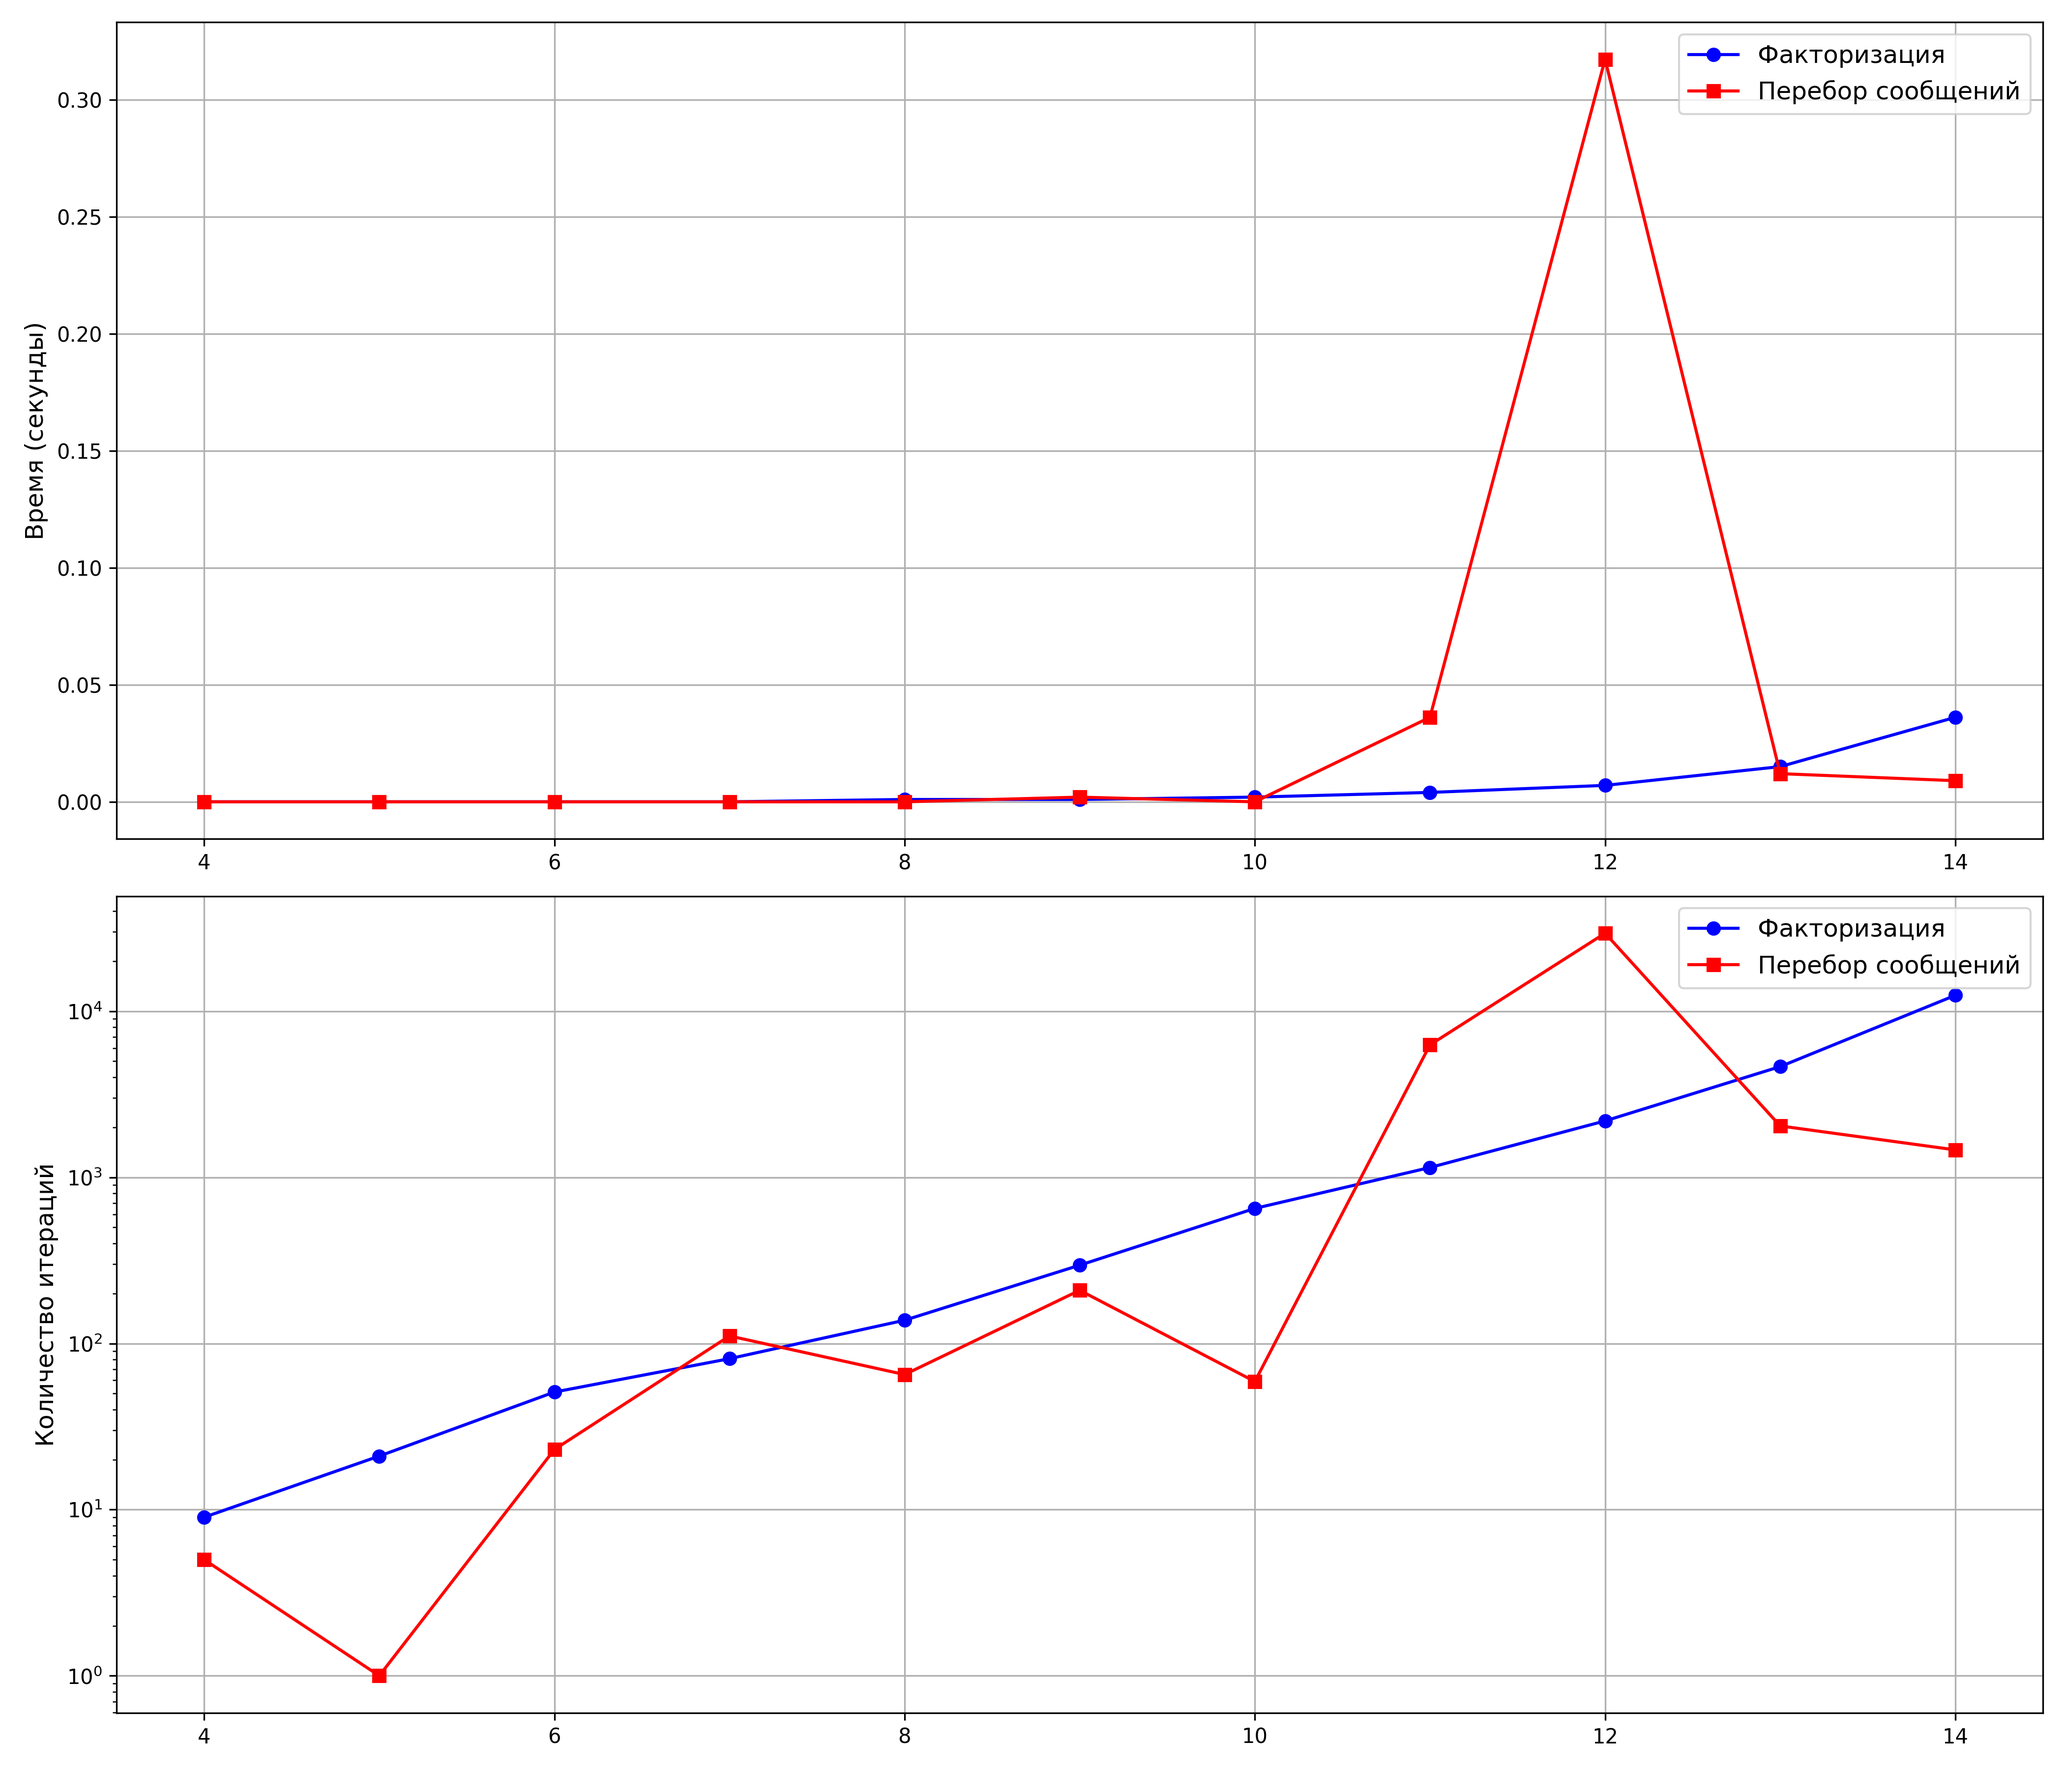
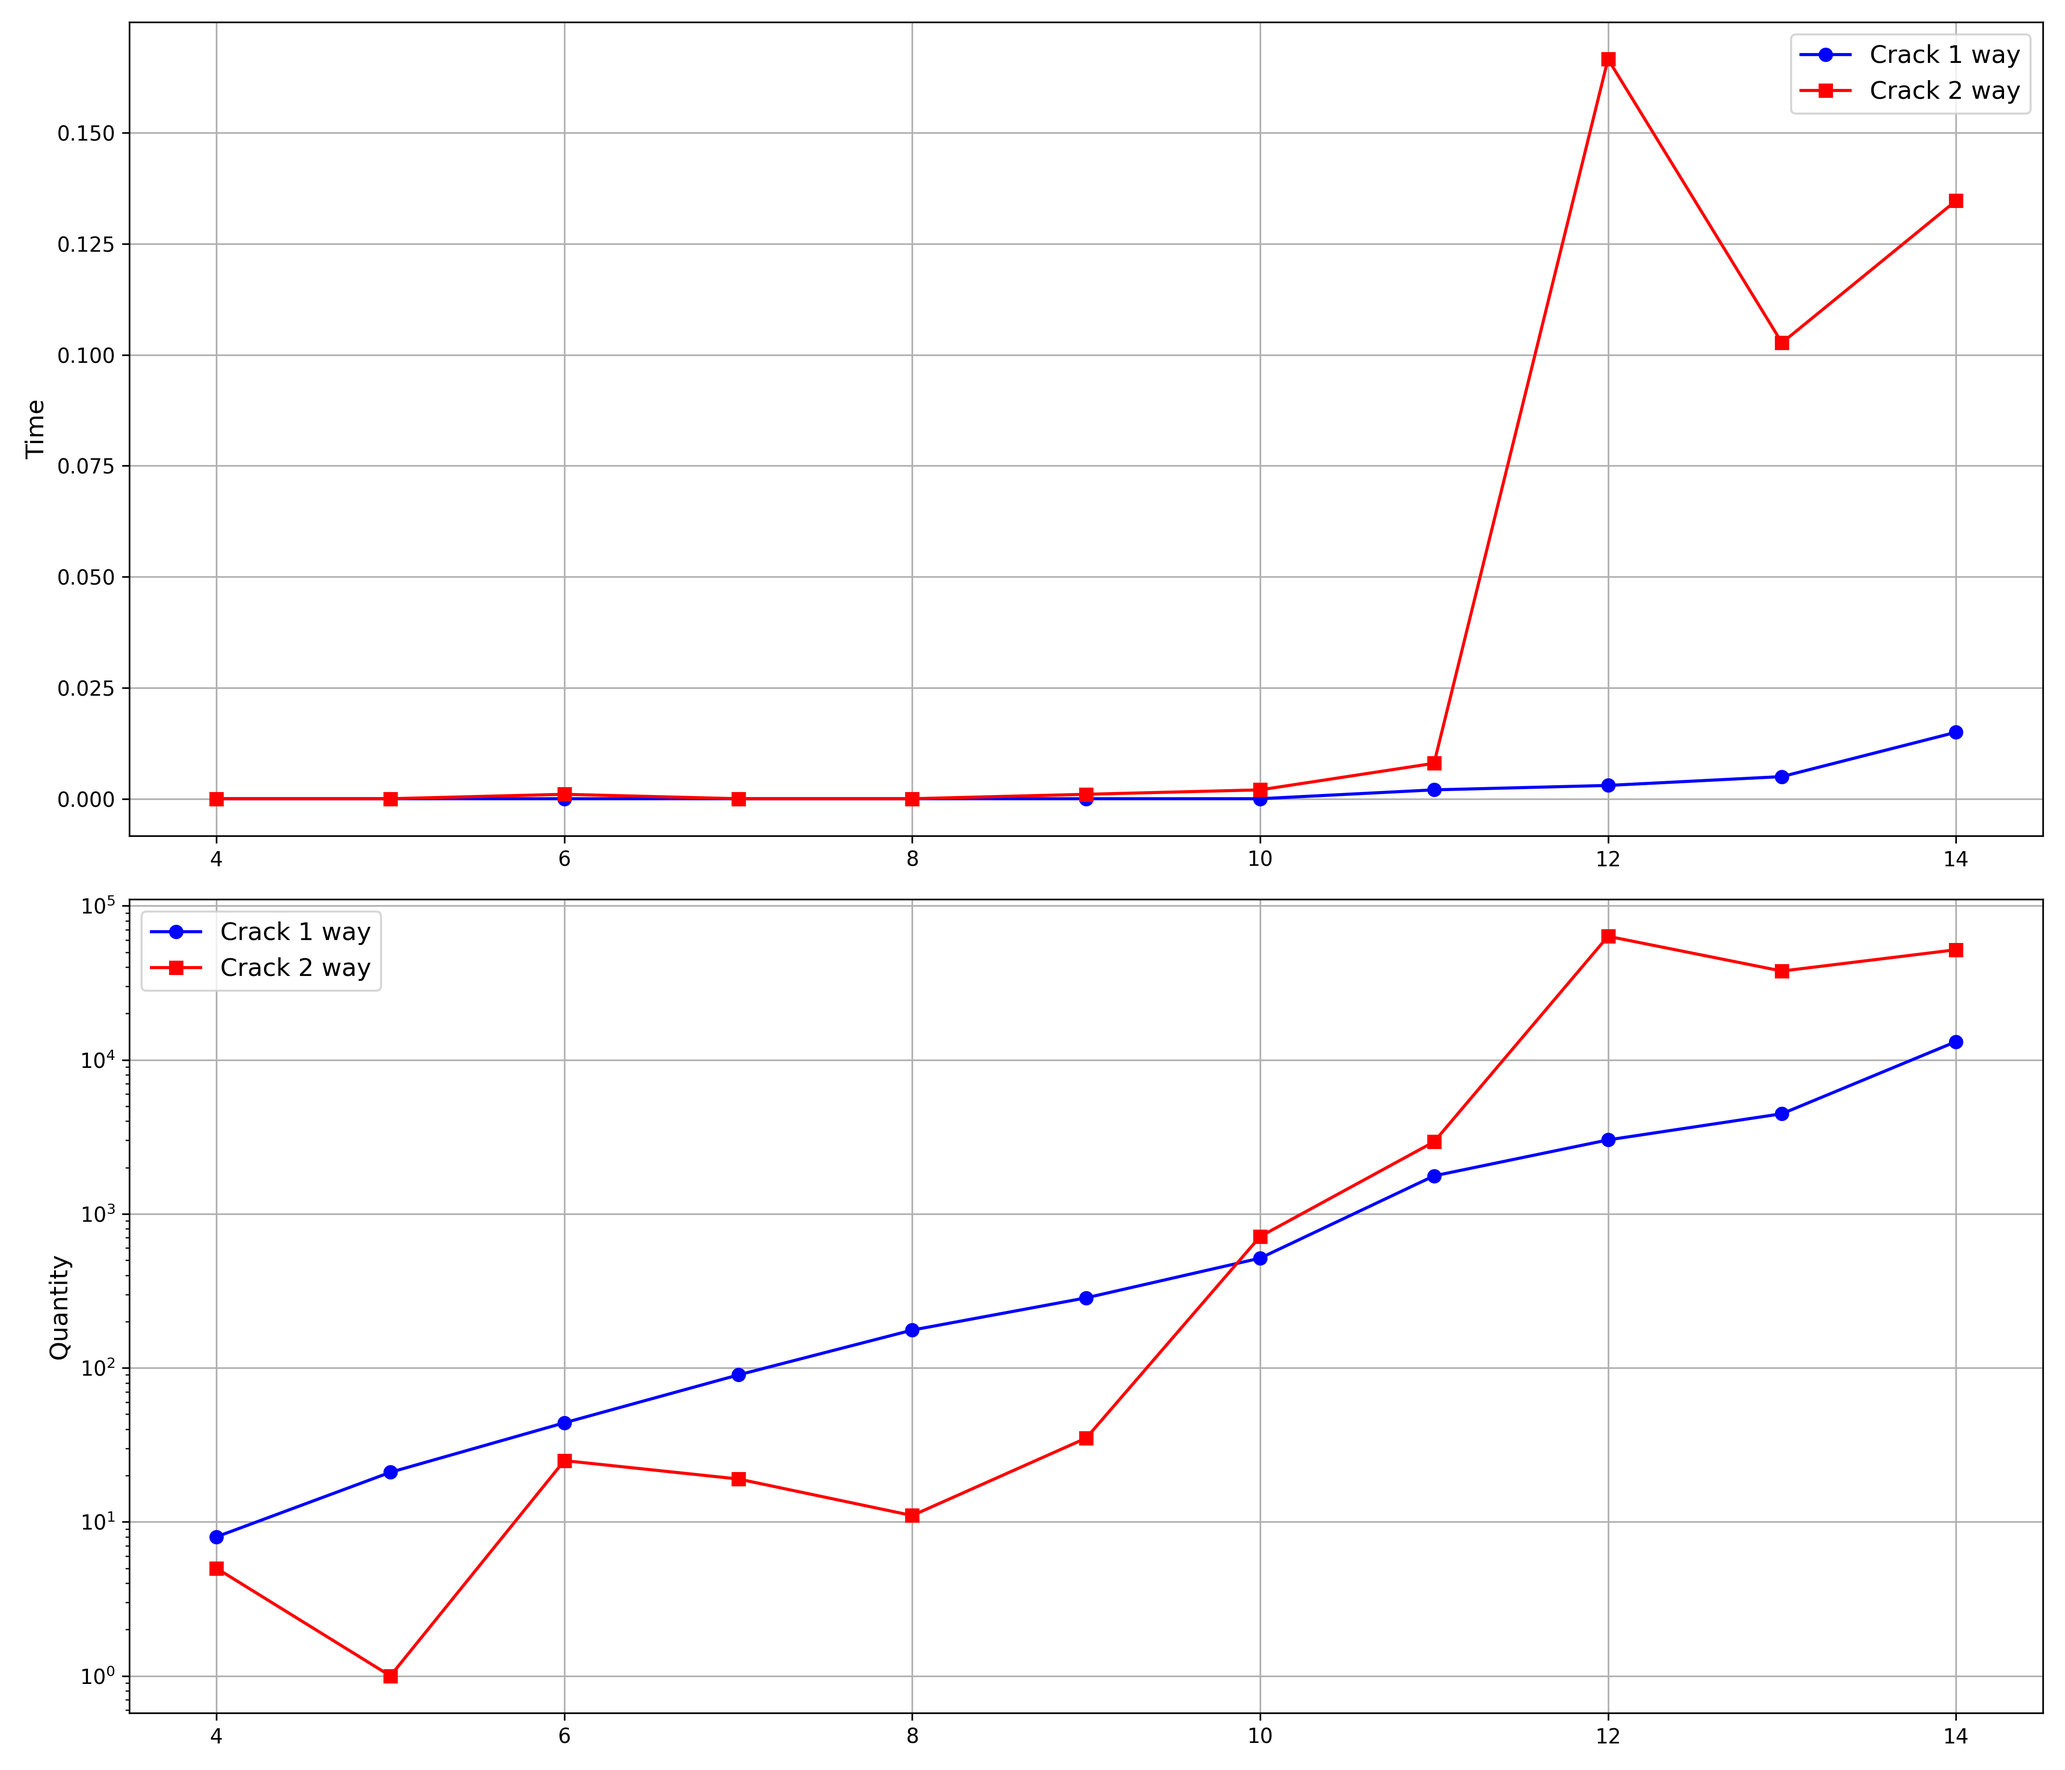
Release 1.1

diff --git a/graph.py b/graph.py
@@ -21,38 +21,38 @@ def print_graph(bits_len):
         message = 123
         ciphertext = rsa_encrypt(message, public_key)
 
-        print("Факторизация")
+        print("Crack 1 way")
         start_time = time.time()
         d, f_iter = crack_rsa(e, n)
         f_time = time.time() - start_time
         f_times.append(f_time)
         f_iters.append(f_iter)
-        print(f"Итерации: {f_iter}, Время: {f_time:.4f} сек")
+        print(f"Iters: {f_iter}, Time: {f_time:.4f} сек")
 
-        print("Взлом на сообщении")
+        print("Crack 2 way")
         start_time = time.time()
         decode, m_iter = crack_on_mess(e, n, message)
         m_time = time.time() - start_time
         m_times.append(m_time)
         m_iters.append(m_iter)
-        print(f"Итерации: {m_iter}, Время: {m_time:.4f} сек")
+        print(f"Iters: {m_iter}, Time: {m_time:.4f} sec")
         bit_.append(bits)
 
     plt.figure(figsize=(14, 12))
 
     plt.subplot(2, 1, 1)
-    plt.plot(bit_lengths, f_times, 'bo-', label='Факторизация')
-    plt.plot(bit_lengths, m_times, 'rs-', label='Перебор сообщений')
+    plt.plot(bit_lengths, f_times, 'bo-', label='Crack 1 way')
+    plt.plot(bit_lengths, m_times, 'rs-', label='Crack 2 way')
 
-    plt.ylabel('Время (секунды)', fontsize=12)
+    plt.ylabel('Time', fontsize=12)
     plt.grid(True)
     plt.legend(fontsize=12)
 
     plt.subplot(2, 1, 2)
-    plt.plot(bit_lengths, f_iters, 'bo-', label='Факторизация')
-    plt.plot(bit_lengths, m_iters, 'rs-', label='Перебор сообщений')
+    plt.plot(bit_lengths, f_iters, 'bo-', label='Crack 1 way')
+    plt.plot(bit_lengths, m_iters, 'rs-', label='Crack 2 way')
 
-    plt.ylabel('Количество итераций', fontsize=12)
+    plt.ylabel('Quantity', fontsize=12)
     plt.yscale('log')
     plt.grid(True)
     plt.legend(fontsize=12)

diff --git a/shame_rsa.py b/shame_rsa.py
@@ -22,7 +22,7 @@ def generate_keys(bits, p=0, q=0):
         q = generate_prime(bits)
 
     if not check_prime(p) and not check_prime(q):
-        raise ValueError('p или q не являются простыми')
+        raise ValueError('p or q is not prime')
 
     while p == q:
         q = generate_prime(bits)
@@ -43,8 +43,8 @@ def generate_keys(bits, p=0, q=0):
 
 if __name__ == "__main__":
     pub_key, priv_key = generate_keys(30)
-    print('Публичный ключ: ' + str(pub_key))
-    print('Секреный ключ: ' + str(priv_key))
+    print('Public key: ' + str(pub_key))
+    print('Secret key: ' + str(priv_key))
     e, n = pub_key
     d = priv_key[0]
     message = 123

diff --git a/two_crack_rsa.py b/two_crack_rsa.py
@@ -27,7 +27,7 @@ if __name__ == "__main__":
     mess = 123128
     cipr = mod_pow(mess, e, n)
     decode, k = crack_on_mess(e, n, cipr)
-    print('Сообщение: ' + str(mess))
-    print('Шифр: ' + str(cipr))
-    print('Рассшифровка: ' + str(decode))
-    print('Итерации: ' + str(k))
+    print('Massage: ' + str(mess))
+    print('Cipr: ' + str(cipr))
+    print('Decrypt: ' + str(decode))
+    print('Iters: ' + str(k))

diff --git a/one_crack_rsa.py b/one_crack_rsa.py
@@ -33,7 +33,7 @@ if __name__ == "__main__":
     e, n = pub_key
     d = priv_key[0]
     d1, k = crack_rsa(e, n)
-    print('Секретный ключ: ' + str(d))
-    print('Расшифрованный секретный ключ: ' + str(d1))
-    print('Итерации: ' + str(k))
+    print('Secret key: ' + str(d))
+    print('Decrypted secret key: ' + str(d1))
+    print('Iters: ' + str(k))
 

diff --git a/rsa.py b/rsa.py
@@ -68,7 +68,7 @@ def rsa_decrypt(ciphertext, private_key):
 
 if __name__ == "__main__":
     pub_key, priv_key = generate_keys(10)
-    in_text = input('Введите текскт: ')
+    in_text = input('Enter text: ')
     cipher = encrypt(in_text, pub_key)
     print(cipher)
     print(decrypt(cipher, priv_key))
